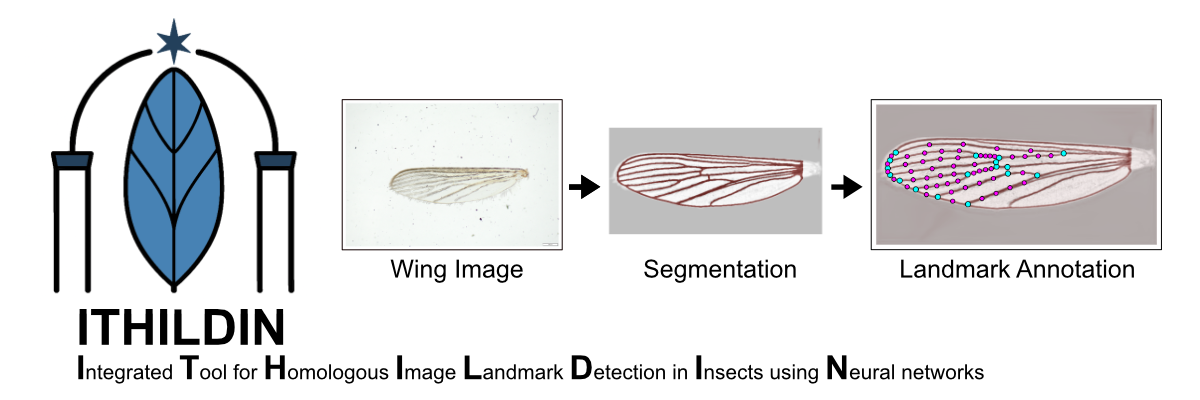
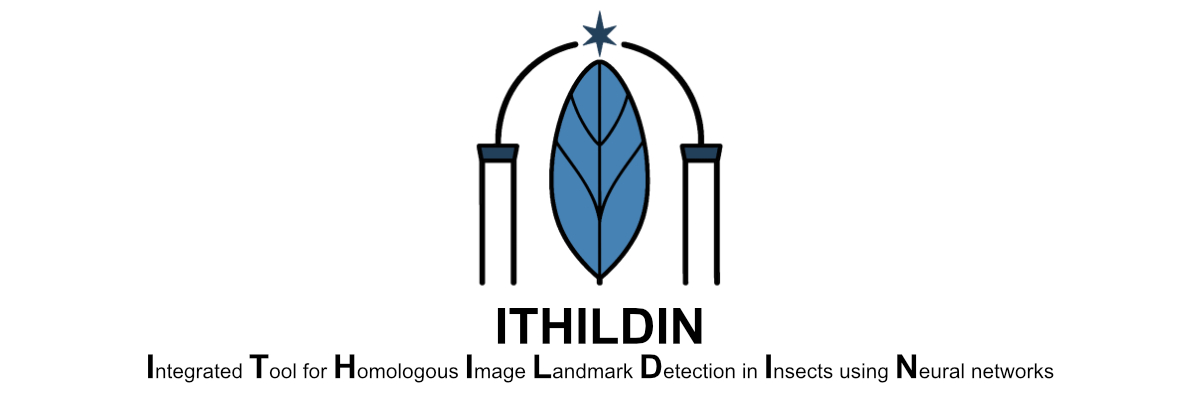
Update README

diff --git a/README.MD b/README.MD
@@ -1,12 +1,11 @@
-# ITHILDIN Wing Analysis
-
-**Automated wing morphometric analysis and species identification for insects**
-
-ITHILDIN is a deep learning-based pipeline for analyzing insect wing images, with a focus on mosquitoes and related Diptera. The system performs automated segmentation, landmark detection, species classification, and geometric morphometric analysis.
 
 <p align="left">
   <img src="./static/images/title_page.jpg" width="1200">
 </p>
+
+**Automated wing morphometric analysis and species identification for insects**
+
+ITHILDIN is a deep learning-based pipeline for analyzing insect wing images, with a focus on mosquitoes and related Diptera. The system performs automated segmentation, landmark detection, species classification, and geometric morphometric analysis.
 
 ## Abstract
 Diptera represent one of the most diverse insect orders, including species with essential ecological functions but also important vectors of human and animal pathogens. Their accurate species identification remains a major bottleneck in ecological and epidemiological studies. Morphological identification requires taxonomic expertise, while molecular methods are costly and not universally reliable. Wing geometric morphometrics offers an alternative, but manual landmark annotation is time-consuming and introduces observer bias. We developed ITHILDIN, a fully automated pipeline for landmark and semilandmark annotation of Diptera wings, combining UNet++ segmentation and an Hourglass landmark prediction model. Using mosquitoes as the primary model system, models were trained on 5,991 annotated images and evaluated on 12,522 images across 34 taxa. We assessed landmark annotation accuracy against human observers and ML-Morph, evaluated species identification performance using Linear Discriminant Analysis on 17 homologous landmarks and 52 semilandmarks, and tested out-of-distribution generalisation by reproducing an independent study. Transferability was demonstrated by adapting the pipeline to Drosophilidae and Glossinidae. The Hourglass model achieved a mean landmark error of 4.5 pixels (95% CI: 4.3–4.6), within human observer variability (4.7 pixels, 95% CI: 4.4–5.0) and substantially outperforming ML-Morph (12.7 pixels, 95% CI: 11.1–14.2). The semilandmark-based approach for species identification achieved 91% balanced accuracy across 34 taxa, approaching CNN performance (94%). On out-of-distribution data, the landmark pipeline generalised substantially better than the CNN and a soft-voting ensemble of the landmark and CNN classifiers achieved 88% balanced accuracy on a replicated study. Combining geometric morphometrics with deep learning provides a reproducible, interpretable, and generalisable alternative to black-box CNN classifiers for Diptera wing analysis. By acting as a consistent single observer, the system eliminates inter-observer bias, enabling large-scale and cross-study morphometric analyses of Dipteran wings. The system is publicly available at ithildin.bnitm.de and transferable to other Diptera families with moderate retraining effort.
